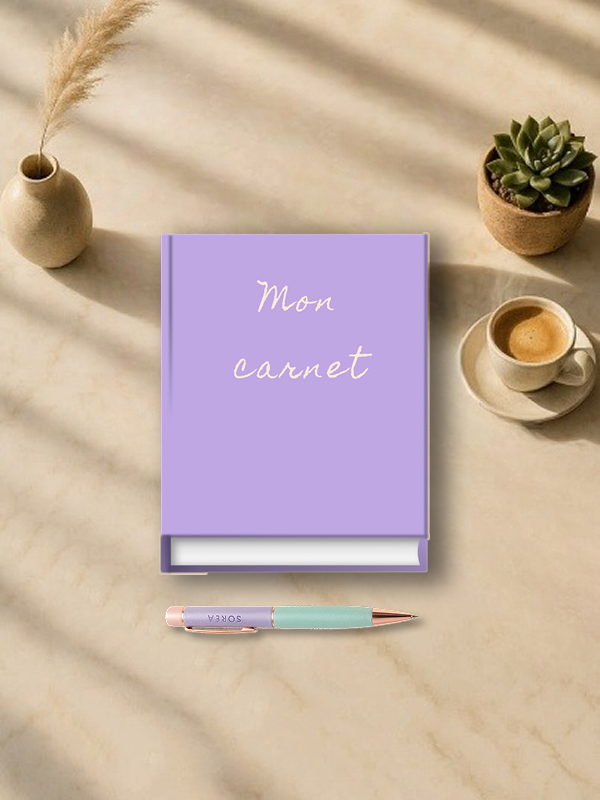
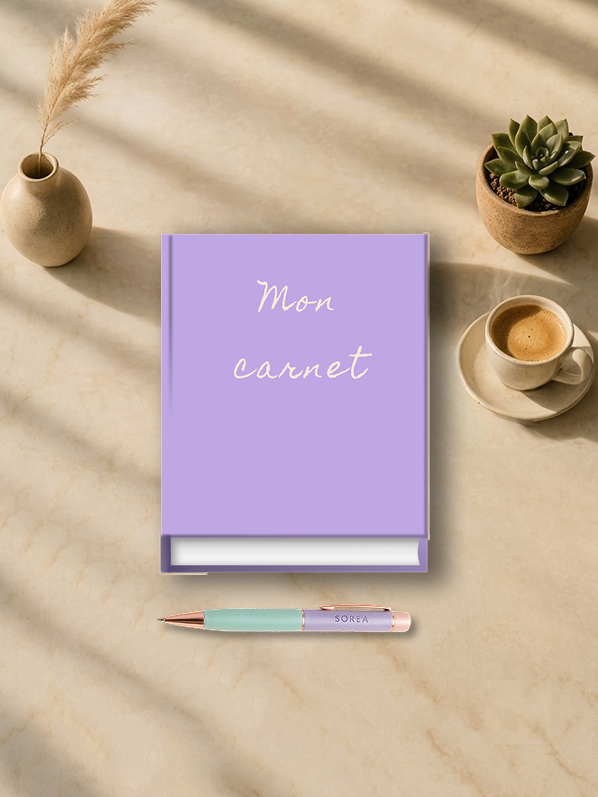
dernier avant merge

diff --git a/src/components/ClientLandingPage.tsx b/src/components/ClientLandingPage.tsx
@@ -83,6 +83,7 @@ export default function ClientLandingPage() {
               alt="Kit personnalisable"
               fill
               className="object-cover"
+              sizes="(max-width: 768px) 100vw, 50vw"
             />
             {/* Overlay Glassmorphism Figma */}
             <div className="relative z-10 w-full h-[162px] bg-[#1E1E1E]/20 backdrop-blur-md rounded-[12px] px-[25px] py-[12px] flex flex-col justify-between items-center text-center text-[var(--color-Blanc-Violet)]">
@@ -147,132 +148,86 @@ export default function ClientLandingPage() {
         </div>
       </section>
 
-      {/* 3. NOS ESSENTIELS BIEN-ETRE */}
-      <section className="w-full py-16 px-4">
-        <div className="w-full max-w-[1180px] mx-auto px-4">
-          <div className="flex flex-col items-center mb-10">
-            <h2 className="text-2xl md:text-3xl font-medium tracking-wide">Nos essentiels bien-être</h2>
-            <div className="h-px bg-[linear-gradient(90deg,#d3cced_0%,#fbf7f2_100%)] w-full max-w-[260px] mt-2 mb-4"></div>
-            <p className="text-center font-light text-lg md:text-xl leading-relaxed">Des objectifs doux & beaux,<br />sélectionnés pour vous accompagner chaque jour.</p>
-          </div>
+      {/* 3. SECTION : LES CHALLENGES ET SURPRISES SOREA */}
+      <section className="w-full bg-[#DAC3FF]/30 py-[48px] px-4 md:px-[106px] flex items-center justify-center">
+        <div className="w-full max-w-[1440px] flex flex-col md:flex-row items-center justify-center gap-10 md:gap-[50px]">
           
-          <div className="grid grid-cols-1 md:grid-cols-2 gap-5 md:gap-6">
-            {[
-              { name: "Kit anti anxiété", desc: "Respiration guidée, roll-on et cartes rituels, votre pause apaisante à portée de main.", price: 29 },
-              { name: "Lunettes anti lumière bleue", desc: "Protection premium pour les yeux, design léger et confortable.", price: 49 },
-              { name: "Coffret relaxation", desc: "Gua-sha, brume d'oreiller et carnet de nuit, un moment rien que pour vous", price: 59 },
-            ].map((product, idx) => (
-              <div key={idx} className="min-h-[312px] bg-white rounded-[10px] shadow-sm border border-[#cfc9d5] overflow-hidden flex flex-col">
-                <div className="h-[138px] bg-[linear-gradient(90deg,rgba(255,255,255,0.65)_0_24px,rgba(234,234,234,0.9)_24px_48px),linear-gradient(0deg,rgba(255,255,255,0.65)_0_34px,rgba(234,234,234,0.9)_34px_68px)] bg-[length:68px_68px]"></div>
-                <div className="p-3 md:p-4 flex flex-1 flex-col">
-                  <h3 className="font-bold text-[#2A2340] mb-2 leading-tight">{product.name}</h3>
-                  <p className="text-sm text-[#2A2340]/85 leading-snug max-w-[440px]">{product.desc}</p>
-                  <div className="mt-auto flex items-end justify-between gap-4 pt-6">
-                    <p className="font-bold text-lg text-[#8B47FF]">{product.price}€</p>
-                    <button
-                      onClick={() => addToCart(product.name, product.price)}
-                      className="min-w-[120px] py-2.5 px-5 bg-[#8B47FF] text-white text-sm font-semibold rounded-[7px] hover:opacity-90 transition-opacity shadow-[0_5px_0_rgba(154,132,204,0.45),0_10px_24px_rgba(67,56,114,0.12)]"
-                    >
-                      Découvrir
-                    </button>
-                  </div>
-                </div>
-              </div>
-            ))}
+          {/* Illustration (Cadeau / Spinner) */}
+          <div className="w-full md:w-1/2 flex justify-center">
+            <Image
+              src="/image_LandingPage/DefisBienEtre.png"
+              alt="Les challenges et surprises SOREA"
+              width={361}
+              height={439.45}
+              className="w-[300px] h-auto object-contain"
+            />
+          </div>
+
+          {/* Contenu Texte & Bouton */}
+          <div className="w-full md:w-1/2 flex flex-col items-center md:items-start text-center md:text-left gap-4">
+            <h2 className="text-2xl md:text-4xl font-semibold tracking-wide text-[#2A2340]">
+              LES CHALLENGES ET SURPRISES <span className="text-[#8B47FF]">SOREA</span>
+            </h2>
+            
+            <p className="text-sm md:text-base text-[#2A2340]/80 font-normal max-w-md">
+              Des défis de développement personnel pensés pour vous inspirer et vous faire grandir, un jour à la fois.
+            </p>
 
             <button
-              type="button"
-              onClick={() => router.push("/shop")}
-              className="min-h-[312px] rounded-[10px] border-2 border-dashed border-[#8B47FF] bg-[#E9E7FF] flex flex-col items-center justify-center gap-4 text-[#000] hover:bg-[#e2ddff] transition-colors"
-            >
-              <span className="w-12 h-12 rounded-full bg-[#8B47FF] text-white flex items-center justify-center text-3xl leading-none shadow-[0_5px_0_rgba(154,132,204,0.45),0_10px_24px_rgba(67,56,114,0.12)]">
-                →
-              </span>
-              <span className="text-lg md:text-xl font-medium">Voir toutes les catégories</span>
-            </button>
-          </div>
-          
-          <div className="mt-10 flex justify-center">
-            <button
-              onClick={() => router.push("/shop")}
-              className="text-base md:text-lg font-semibold text-white py-3 px-10 rounded-full bg-[#8B47FF] hover:opacity-90 transition-opacity shadow-[0_5px_0_rgba(154,132,204,0.45),0_10px_24px_rgba(67,56,114,0.12)]"
-            >
-              Accéder à la boutique
-            </button>
-          </div>
-        </div>
-      </section>
-
-      {/* 4. NOS CHALLENGES SURPRISES */}
-      <section className="w-full py-16 px-4 overflow-hidden">
-        <div className={pageSectionClass + " flex flex-col items-center"}>
-          <div className="flex flex-col items-center mb-16">
-            <h2 className="text-2xl md:text-3xl font-medium tracking-wide text-center">Nos challenges<br />surprises</h2>
-            <div className="h-px bg-[linear-gradient(90deg,#d3cced_0%,#fbf7f2_100%)] w-[200px] mt-2"></div>
-          </div>
-
-          <div className="flex flex-col md:flex-row items-center justify-between w-full gap-8 relative">
-            {/* Wheel Spinner */}
-            <div>
-              <Image src="/images/wheelspinner.png" alt="Roulette des défis" width={400} height={400} className="w-full h-auto object-contain" />
-            </div>
-
-            {/* Middle: Text and Buttons */}
-            <div className="w-full md:w-1/3 flex flex-col items-center text-center">
-              <p className="text-base mb-8 max-w-sm">
-                Tes défis SOREA t&apos;attendent, avec une multitude de challenges intégrés pour te dépasser et te développer personnellement !
-              </p>
-              <div className="flex flex-col sm:flex-row gap-4">
-                <button 
-                  onClick={() => router.push("/carnet")}
-                  className={`py-2.5 px-6 border border-[#2A2340] bg-white rounded-md text-xs font-semibold hover:bg-gray-50 ${gradientButtonClass}`}
-                >
-                  Découvrir tous<br/>les défis SOREA
-                </button>
-                <button 
-                  onClick={() => addToCart("Kit Défis SOREA", 49)}
-                  className={`py-2.5 px-6 bg-[#A18FE3] border border-[#A18FE3] text-white rounded-md text-xs font-semibold hover:bg-[#8D7CD4] ${gradientButtonClass}`}
-                >
-                  Recevoir mon kit<br/>à défis SOREA
-                </button>
-              </div>
-            </div>
-
-            {/* GiftBox */}
-            <div>
-              <Image src="/images/cadeaux.png" alt="Roulette des défis" width={400} height={400} className="w-full h-auto object-contain" />
-            </div>
-          </div>
-        </div>
-      </section>
-
-      {/* 5. SUIVRE, ECRIRE, PROGRESSER */}
-      <section className="w-full py-16 px-4">
-        <div className="w-full max-w-[1080px] mx-auto flex flex-col items-center">
-          <div className="flex flex-col items-center mb-6">
-            <h2 className="text-2xl md:text-3xl font-medium tracking-wide">Suivre, écrire, progresser</h2>
-            <div className="h-px bg-[linear-gradient(90deg,#d3cced_0%,#fbf7f2_100%)] w-full max-w-[300px] mt-2 mb-4"></div>
-          </div>
-          <p className="text-sm tracking-wider uppercase mb-16 text-center">Notes, Humeurs, Habitudes, Challenges et<br />Coin divertissement</p>
-
-          <div>
-            <Image src="/images/Diary_SOREA.png" alt="Carnet SOREA" width={1200} height={800} className="w-full max-w-[1080px] h-auto object-cover" />
-          </div>
-
-          <div className="flex gap-4">
-            <button 
               onClick={() => router.push("/carnet")}
-              className={`py-2 px-6 border border-[#2A2340] bg-white rounded-md text-xs font-semibold hover:bg-gray-50 ${gradientButtonClass}`}
+              className="mt-2 px-8 py-3 bg-[var(--color-SOREA-V1)] hover:bg-[#7833ee] text-white text-sm font-medium rounded-full transition-colors shadow-sm"
             >
-              Découvrir mon Carnet
-            </button>
-            <button 
-              onClick={() => addToCart("Carnet Challenge SOREA", 39)}
-              className={`py-2 px-6 border border-[#2A2340] bg-white rounded-md text-xs font-semibold hover:bg-gray-50 ${gradientButtonClass}`}
-            >
-              Commander mon Carnet Challenge
+              Commencer mon défi
             </button>
           </div>
+
+        </div>
+      </section>
+
+      {/* 4. SECTION : SUIVRE, ÉCRIRE, PROGRESSER */}
+      <section className="w-full py-[48px] px-4 md:px-[32px] flex items-center justify-center">
+        <div className="w-full max-w-[1440px] flex flex-col md:flex-row items-center justify-center gap-[22px]">
+          
+          {/* Bloc Texte & Boutons (Gauche) */}
+          <div className="w-full md:w-1/2 flex flex-col items-center text-center gap-6">
+            <h2 className="text-2xl md:text-4xl font-semibold tracking-wide text-[#2A2340]">
+              SUIVRE, ÉCRIRE, PROGRESSER
+            </h2>
+            
+            <p className="text-base md:text-lg text-[#2A2340]/80 font-normal">
+              Notes, Humeurs, Habitudes, Challenges<br />et Coin divertissement
+            </p>
+
+            <div className="flex flex-col sm:flex-row items-center gap-4 mt-2">
+              <button
+                onClick={() => router.push("/carnet")}
+                className="px-6 py-3 bg-[#8B47FF] hover:bg-[#7833ee] text-white text-sm font-medium rounded-full transition-colors shadow-sm"
+              >
+                Découvrir mon carnet
+              </button>
+              
+              <button
+                onClick={() => router.push("/shop")}
+                className="px-6 py-3 bg-[#8B47FF] hover:bg-[#7833ee] text-white text-sm font-medium rounded-full transition-colors shadow-sm"
+              >
+                Commander mon carnet
+              </button>
+            </div>
+          </div>
+
+          {/* Bloc Image Carnet (Droite) */}
+          <div className="w-full md:w-1/2 flex justify-center">
+            <div className="relative overflow-hidden ">
+              <Image
+                src="/image_LandingPage/Carnet.png"
+                alt="Mon carnet SOREA"
+                width={500}
+                height={700}
+                className="max-w-[500px] h-auto object-cover rounded-[4px] drop-shadow-[18px_17px_10px_#F8DAEA]"
+              />
+            </div>
+          </div>
+
         </div>
       </section>
 
@@ -309,11 +264,66 @@ export default function ClientLandingPage() {
         </div>
       </section>
 
+      {/* 4. SECTION : LES CHALLENGES ET SURPRISES SOREA (WHEEL SPINNER) */}
+      <section className="w-full bg-[#DAC3FF]/30 py-[48px] px-4 md:px-[106px] flex items-center justify-center">
+        <div className="w-full max-w-[1440px] flex flex-col md:flex-row items-center justify-center gap-10 md:gap-[60px]">
+          
+          {/* Roue de la fortune (Gauche) */}
+          <div className="w-full md:w-1/2 flex justify-center items-center">
+            <Image
+              src="/image_icone/image_Wheel-Spinner/WS_Bien-être1.png"
+              alt="Roue des challenges SOREA"
+              width={300}
+              height={300}
+              className="w-full max-w-[300px] md:max-w-[380px] h-auto object-contain drop-shadow-md"
+              priority
+            />
+          </div>
+
+          {/* Contenu Texte + Tag + Bouton (Droite) */}
+          <div className="w-full md:w-1/2 flex flex-col items-center md:items-start text-center md:text-left gap-5">
+            <h2 className="text-2xl md:text-4xl font-semibold tracking-wide text-[#2A2340]">
+              LES CHALLENGES ET SURPRISES <span className="text-[#8B47FF]">SOREA</span>
+            </h2>
+            
+            <p className="text-sm md:text-base text-[#2A2340]/80 font-normal max-w-md">
+              Des défis de développement personnel pensés pour vous inspirer et vous faire grandir, un jour à la fois.
+            </p>
+
+            {/* Carte/Encadré translucide "Exemple de défis" */}
+            <div className="w-full max-w-[340px] bg-[#D6BBFF]/60 rounded-[14px] p-3 px-4 flex items-center gap-3">
+              <Image
+                src="/image_icone/image_Wheel-Spinner/Introspection.png"
+                alt="Loupe Introspection"
+                width={36}
+                height={36}
+                className="w-9 h-9 object-contain shrink-0"
+              />
+              <span className="text-white text-sm font-medium">
+                Exemple de défis
+              </span>
+            </div>
+
+            {/* Bouton Commencer */}
+            <button
+              onClick={() => router.push("/carnet")}
+              className="mt-1 px-8 py-3 bg-[#8B47FF] hover:bg-[#7833ee] text-white text-sm font-medium rounded-full transition-colors shadow-sm"
+            >
+              Commencer mon défi
+            </button>
+          </div>
+
+        </div>
+      </section>
 
       {/* Footer Text */}
       <div className="w-full max-w-[1180px] mx-auto px-4">
         <h2 className="text-2xl md:text-3xl font-medium tracking-wide text-center mb-6"><strong>S</strong>érénité, <strong>É</strong>quilibre et <strong>A</strong>lignement. SOREA ton bien-être au quotidien.</h2>
       </div>
+
+<section className="rounded-2xl bg-[linear-gradient(90deg,#F4EBFF_0_12.5%,#FFFFFF_12.5%_25%,#F4EBFF_25%_37.5%,#FFFFFF_37.5%_50%,#F4EBFF_50%_62.5%,#FFFFFF_62.5%_75%,#F4EBFF_75%_87.5%,#FFFFFF_87.5%_100%)] p-8 text-center">
+          <p className="w-full text-xl font-bold text-black">Chaque petit défi compte. Tu avances déjà.</p>
+        </section>
 
         </main>
       </div>
